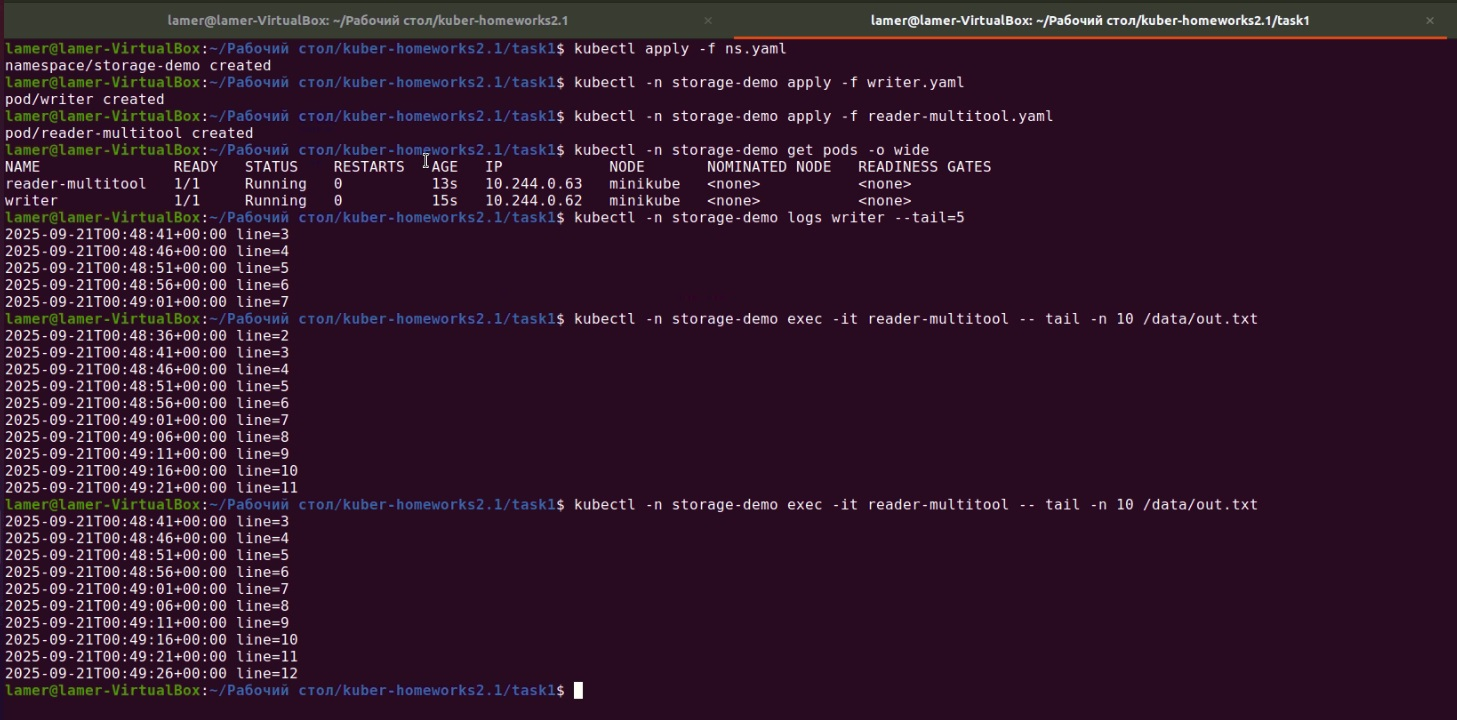
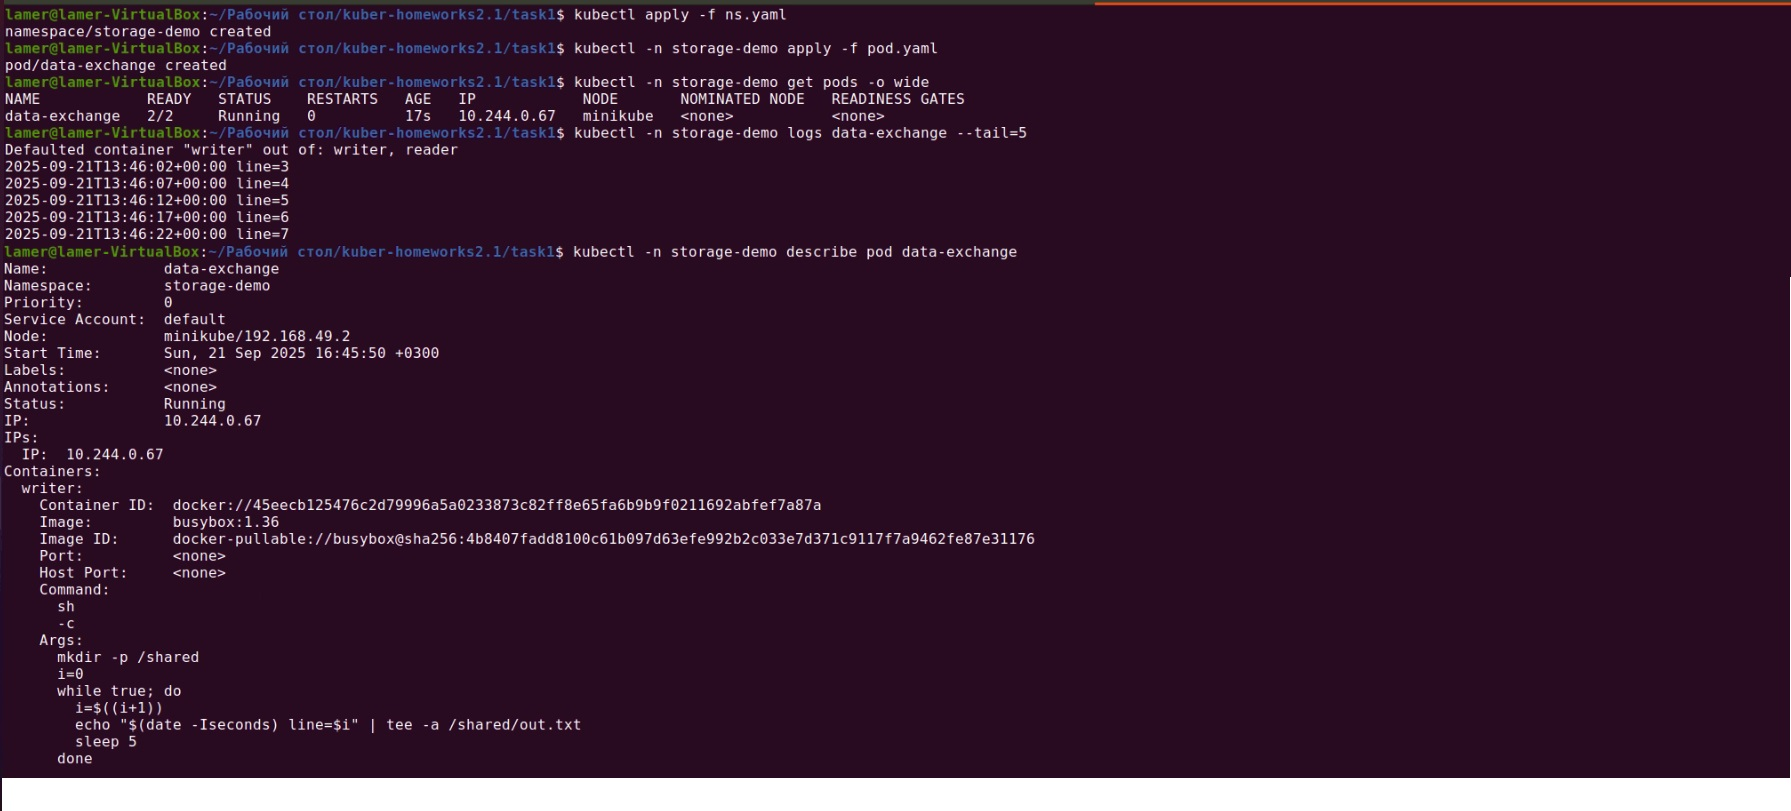
task 1 edit 1

diff --git a/task1/README.md b/task1/README.md
@@ -25,8 +25,7 @@ kubectl apply -f ns.yaml
 ----------------------------------------
 
 ### Подымаем поды
-kubectl -n storage-demo apply -f writer.yaml
-kubectl -n storage-demo apply -f reader-multitool.yaml
+kubectl -n storage-demo apply -f pod.yaml
 ----------------------------------------
 
 ### Проверям что поды подняль 
@@ -36,10 +35,33 @@ kubectl -n storage-demo get pods -o wide
 
 Проверка чтения файла
 ### логи писателя
-kubectl -n storage-demo logs writer --tail=5
+kubectl -n storage-demo logs data-exchange --tail=5
 
 ### хвост файла из multitool (тот же hostPath)
-kubectl -n storage-demo exec -it reader-multitool -- tail -n 10 /data/out.txt
+kubectl -n storage-demo exec -it reader -- tail -n 10 /data/out.txt
 exit
 
-![]()
+### 
+kubectl -n storage-demo describe pod data-exchange
+
+Показать всё про под
+kubectl -n storage-demo describe pod data-exchange
+
+Логи контейнера writer (пишет каждые 5 сек)
+kubectl -n storage-demo logs data-exchange -c writer --tail=20 -f
+
+Логи контейнера reader (он делает tail -f файла)
+kubectl -n storage-demo logs data-exchange -c reader --tail=20 -f
+
+Зайти внутрь контейнера reader и посмотреть файл
+kubectl -n storage-demo exec -it data-exchange -c reader -- sh
+# уже внутри контейнера:
+tail -n 20 /data/out.txt
+exit
+
+Однострочник без входа внутрь
+kubectl -n storage-demo exec -it data-exchange -c reader -- tail -n 20 /data/out.txt
+
+(На всякий) показать имена контейнеров в поде
+kubectl -n storage-demo get pod data-exchange -o jsonpath='{.spec.containers[*].name}{"\n"}'
+# ожидаешь: writer reader
